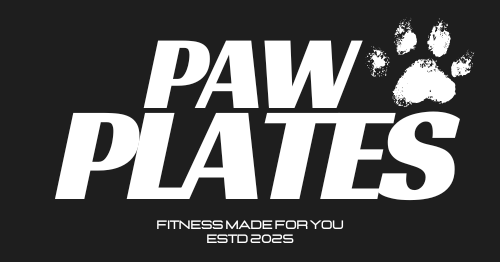
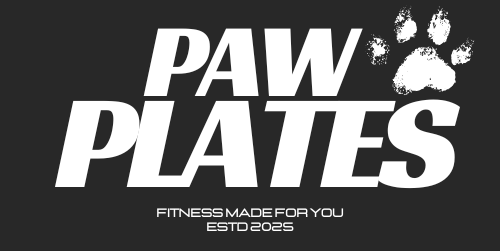
fixed home page image

diff --git a/PawPlates/src/main/java/HomePage.java b/PawPlates/src/main/java/HomePage.java
@@ -168,7 +168,7 @@ public class HomePage extends JFrame {
 
         // Logo image
         try {
-            BufferedImage img = ImageIO.read(new File("src/main/resources/PawPlates.png"));
+            BufferedImage img = ImageIO.read(new File("src/main/resources/PawPlatesDark.png"));
             JLabel imgLabel = new JLabel(new ImageIcon(img));
             c.gridx = 1;
             c.gridy = 2;
